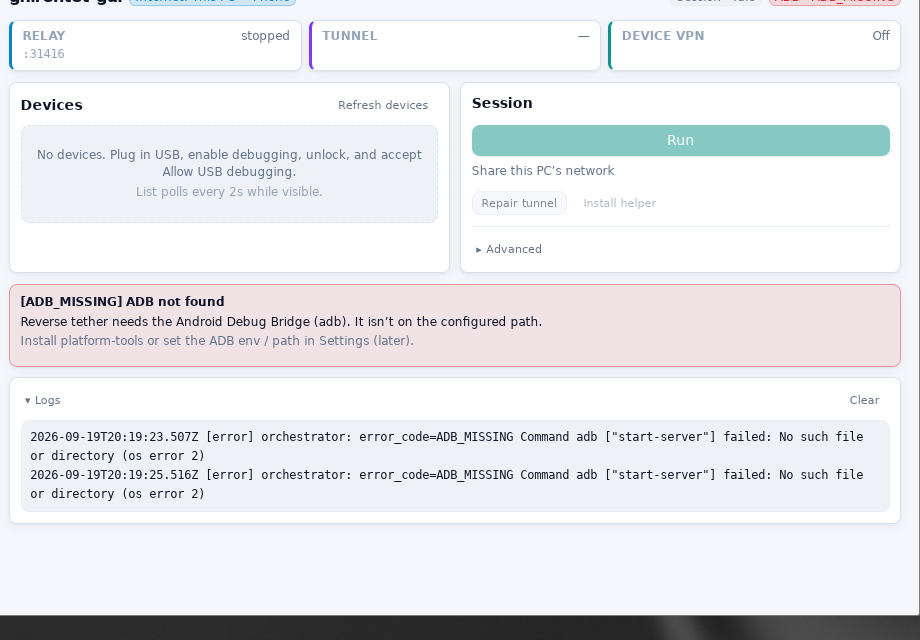
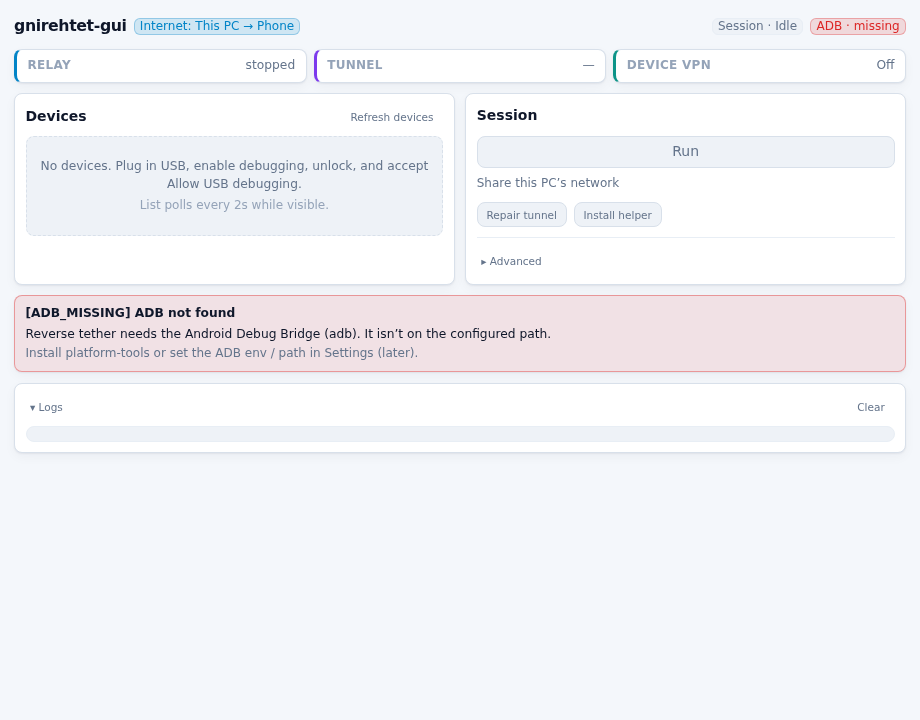
fix(ui): polish direction badge, ADB status, and Waiting-VPN CTAs
Keep Session chip as session-only; ADB · missing/ok on its own line.
Disable Run when ADB is missing or no ready device; drop duplicate
I’ve allowed it / Stop from the VPN banner (Session column only).
Recapture shell_idle and shell_waiting_vpn screenshots.

diff --git a/apps/desktop/src/routes/+page.svelte b/apps/desktop/src/routes/+page.svelte
@@ -402,7 +402,19 @@
     if (!import.meta.env.DEV) return;
     const preview = new URLSearchParams(location.search).get("preview");
     if (!preview) return;
-    if (preview === "waiting-vpn") {
+    if (preview === "idle" || preview === "adb-missing") {
+      adb = null;
+      adbErrorCode = "ADB_MISSING";
+      devices = [];
+      selectedSerial = null;
+      relay = { state: "relay_stopped", ownedBySession: false };
+      layers = initialSessionLayers();
+      lastAppError = {
+        code: "ADB_MISSING",
+        message: "ADB not found",
+      };
+      actionError = null;
+    } else if (preview === "waiting-vpn") {
       adb = { path: "/usr/bin/adb", version: "1.0.41", available: true };
       adbErrorCode = null;
       devices = [
@@ -715,7 +727,7 @@
         <Badge tone="success">ADB · ok</Badge>
         <span class="font-mono text-[12px] text-fg-subtle">{adb.version}</span>
       {:else if adbErrorCode}
-        <Badge tone="danger">ADB · {adbErrorCode}</Badge>
+        <Badge tone="danger">ADB · missing</Badge>
       {:else}
         <Badge tone="muted">ADB · …</Badge>
       {/if}
@@ -969,47 +981,49 @@
         <p class="mt-0.5 font-mono text-[12px] text-fg-subtle">{actionError}</p>
       {/if}
 
-      <div class="mt-2 flex flex-wrap gap-2">
-        {#if bannerSlot.kind === "auth"}
-          <Button variant="secondary" size="sm" onclick={() => refreshDevices()} disabled={busy}>
-            I’ve allowed it
-          </Button>
-        {:else if bannerSlot.kind === "vpn" && ux}
-          {#if ux.code === "VPN_PERMISSION_PENDING"}
-            <Button variant="secondary" size="sm" onclick={onIveAllowedVpn} disabled={busy}>
+      {@const bannerHasCtas =
+        bannerSlot.kind === "auth" ||
+        bannerSlot.kind === "recovery" ||
+        bannerSlot.kind === "empty" ||
+        (bannerSlot.kind === "vpn" && ux?.code !== "VPN_PERMISSION_PENDING")}
+      {#if bannerHasCtas}
+        <div class="mt-2 flex flex-wrap gap-2">
+          {#if bannerSlot.kind === "auth"}
+            <Button variant="secondary" size="sm" onclick={() => refreshDevices()} disabled={busy}>
               I’ve allowed it
             </Button>
-            <Button variant="destructive" size="sm" onclick={onStop} disabled={busy || stopping}>Stop</Button>
-          {:else if ux.code === "TUNNEL_LOST"}
-            <Button variant="default" size="sm" onclick={onRepairTunnel} disabled={!canAct}>
-              Repair tunnel
-            </Button>
-            <Button variant="destructive" size="sm" onclick={onStop} disabled={busy || stopping}>Stop</Button>
-          {:else}
-            <Button variant="default" size="sm" onclick={onRun} disabled={!canAct}>Retry Run</Button>
-            <Button variant="destructive" size="sm" onclick={onStop} disabled={busy || stopping}>Stop</Button>
+          {:else if bannerSlot.kind === "vpn" && ux}
+            {#if ux.code === "TUNNEL_LOST"}
+              <Button variant="default" size="sm" onclick={onRepairTunnel} disabled={!canAct}>
+                Repair tunnel
+              </Button>
+              <Button variant="destructive" size="sm" onclick={onStop} disabled={busy || stopping}>Stop</Button>
+            {:else}
+              <Button variant="default" size="sm" onclick={onRun} disabled={!canAct}>Retry Run</Button>
+              <Button variant="destructive" size="sm" onclick={onStop} disabled={busy || stopping}>Stop</Button>
+            {/if}
+          {:else if bannerSlot.kind === "recovery" && ux}
+            {#if ux.code === "APK_MISSING"}
+              <Button variant="default" size="sm" onclick={onInstall} disabled={!canAct}>Retry Install</Button>
+              <Button variant="ghost" size="sm" onclick={() => refreshAll()} disabled={busy}>Refresh paths</Button>
+            {:else if ux.code === "INSTALL_FAILED"}
+              <Button variant="default" size="sm" onclick={onInstall} disabled={!canAct}>Reinstall helper</Button>
+              <Button variant="secondary" size="sm" onclick={onRun} disabled={!canAct}>Retry Run</Button>
+            {:else if ux.code === "TUNNEL_FAILED"}
+              <Button variant="default" size="sm" onclick={onRepairTunnel} disabled={!canAct}>Repair tunnel</Button>
+              <Button variant="secondary" size="sm" onclick={onRun} disabled={!canAct}>Retry Run</Button>
+            {:else if ux.code === "RELAY_CRASHED" || ux.code === "RELAY_START_FAILED" || ux.code === "PORT_IN_USE"}
+              <Button variant="default" size="sm" onclick={onRun} disabled={!canAct}>Restart Run</Button>
+              <Button variant="destructive" size="sm" onclick={onStop} disabled={busy || stopping}>Stop</Button>
+            {:else}
+              <Button variant="default" size="sm" onclick={onRun} disabled={!canAct}>Retry Run</Button>
+              <Button variant="destructive" size="sm" onclick={onStop} disabled={busy || stopping}>Stop</Button>
+            {/if}
+          {:else if bannerSlot.kind === "empty"}
+            <Button variant="ghost" size="sm" onclick={() => refreshAll()} disabled={busy}>Refresh devices</Button>
           {/if}
-        {:else if bannerSlot.kind === "recovery" && ux}
-          {#if ux.code === "APK_MISSING"}
-            <Button variant="default" size="sm" onclick={onInstall} disabled={!canAct}>Retry Install</Button>
-            <Button variant="ghost" size="sm" onclick={() => refreshAll()} disabled={busy}>Refresh paths</Button>
-          {:else if ux.code === "INSTALL_FAILED"}
-            <Button variant="default" size="sm" onclick={onInstall} disabled={!canAct}>Reinstall helper</Button>
-            <Button variant="secondary" size="sm" onclick={onRun} disabled={!canAct}>Retry Run</Button>
-          {:else if ux.code === "TUNNEL_FAILED"}
-            <Button variant="default" size="sm" onclick={onRepairTunnel} disabled={!canAct}>Repair tunnel</Button>
-            <Button variant="secondary" size="sm" onclick={onRun} disabled={!canAct}>Retry Run</Button>
-          {:else if ux.code === "RELAY_CRASHED" || ux.code === "RELAY_START_FAILED" || ux.code === "PORT_IN_USE"}
-            <Button variant="default" size="sm" onclick={onRun} disabled={!canAct}>Restart Run</Button>
-            <Button variant="destructive" size="sm" onclick={onStop} disabled={busy || stopping}>Stop</Button>
-          {:else}
-            <Button variant="default" size="sm" onclick={onRun} disabled={!canAct}>Retry Run</Button>
-            <Button variant="destructive" size="sm" onclick={onStop} disabled={busy || stopping}>Stop</Button>
-          {/if}
-        {:else if bannerSlot.kind === "empty"}
-          <Button variant="ghost" size="sm" onclick={() => refreshAll()} disabled={busy}>Refresh devices</Button>
-        {/if}
-      </div>
+        </div>
+      {/if}
     </Alert>
   {/if}
 

diff --git a/apps/desktop/src/lib/components/ui/button.svelte b/apps/desktop/src/lib/components/ui/button.svelte
@@ -40,7 +40,7 @@
 <button
   type="button"
   class={cn(
-    "inline-flex items-center justify-center gap-1.5 rounded-md font-medium transition-colors disabled:pointer-events-none disabled:opacity-50",
+    "inline-flex items-center justify-center gap-1.5 rounded-md font-medium transition-colors disabled:pointer-events-none disabled:cursor-not-allowed disabled:bg-bg-muted disabled:text-fg-muted disabled:opacity-100 disabled:shadow-none disabled:border-border disabled:hover:bg-bg-muted disabled:hover:opacity-100",
     variants[variant],
     sizes[size],
     className,
